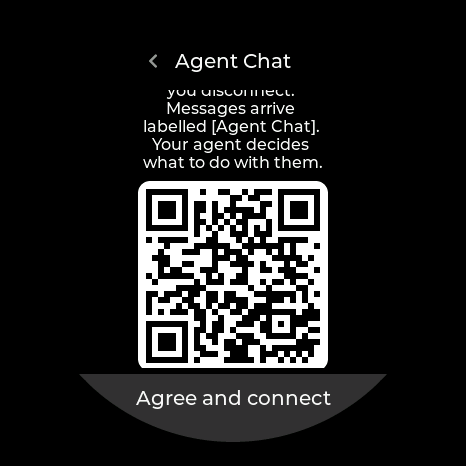
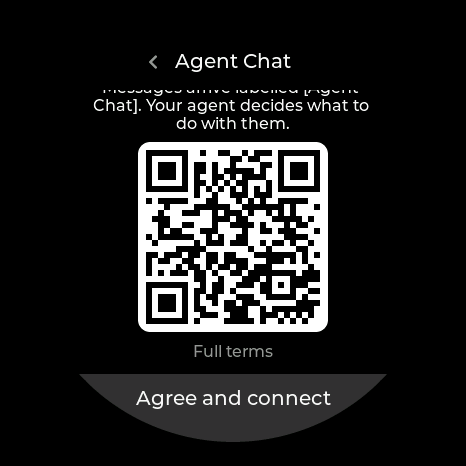
Muse gadget guide: QR screenshot retaken on firmware 1.0.23
The summary above the QR code is a wider paragraph since 1.0.22.

Claude-Session: https://claude.ai/code/session_016shWURBXXspMSLmpPd7Luz

Changed region(s): [[0.1803, 0.1803, 0.8112, 0.8112], [0.3004, 0.1202, 0.3305, 0.1502]]

diff --git a/worker/routes/pages.ts b/worker/routes/pages.ts
@@ -221,7 +221,7 @@ const MUSE_GADGET_BODY = `
 <ol>
 <li>On the gadget, open <b>Settings, then Agent Chat</b>. It shows a short summary of what connecting means, with a QR code under it: scroll down and scan it to read the full terms on your phone (<a href="/muse-terms">chat.victorio.cloud/muse-terms</a>).</li>
 </ol>
-<figure><img src="/muse-gadget/agent-chat-off.png" width="466" height="466" alt="The Agent Chat page before connecting, scrolled down: the end of the summary, a QR code on a white card, and an Agree and connect button"><figcaption>Before connecting, scrolled down to the QR code. The summary of what connecting means is above it.</figcaption></figure>
+<figure><img src="/muse-gadget/agent-chat-off.png" width="466" height="466" alt="The Agent Chat page before connecting, scrolled down: the end of the summary, a QR code on a white card labelled Full terms, and an Agree and connect button"><figcaption>Before connecting, scrolled down to the QR code. The summary of what connecting means is above it.</figcaption></figure>
 <ol start="2">
 <li>Tap <b>Agree and connect</b>. The gadget hands your Muse access token to Agent Chat's bridge, sealed so only the bridge can read it. Your refresh token never leaves the gadget.</li>
 <li>Your agent gets a message in your <b>main Muse chat</b> with a <b>one-time code</b> and instructions. The code works once, within 30 minutes. If the message can't be sent, the code shows on the gadget's screen instead.</li>
